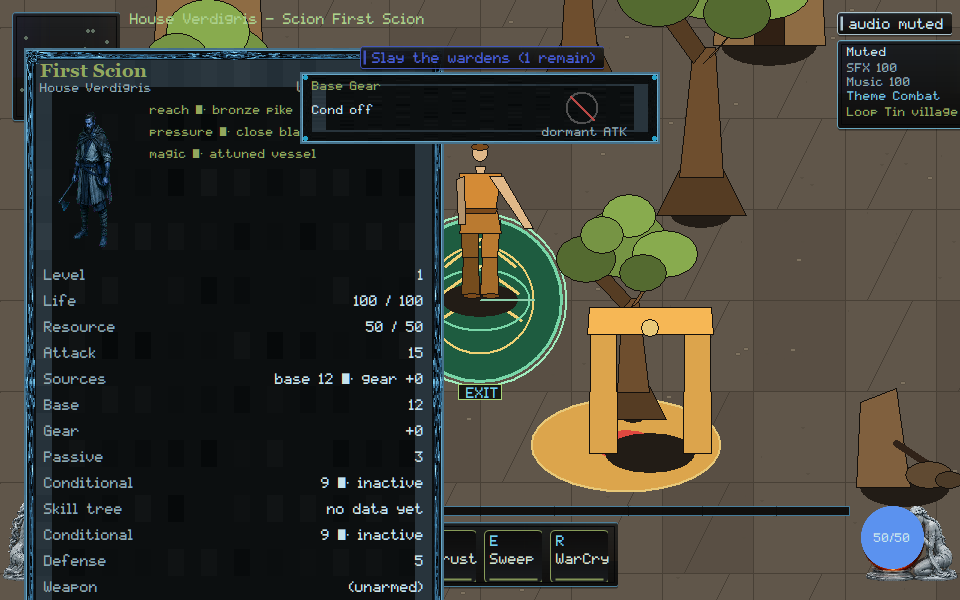
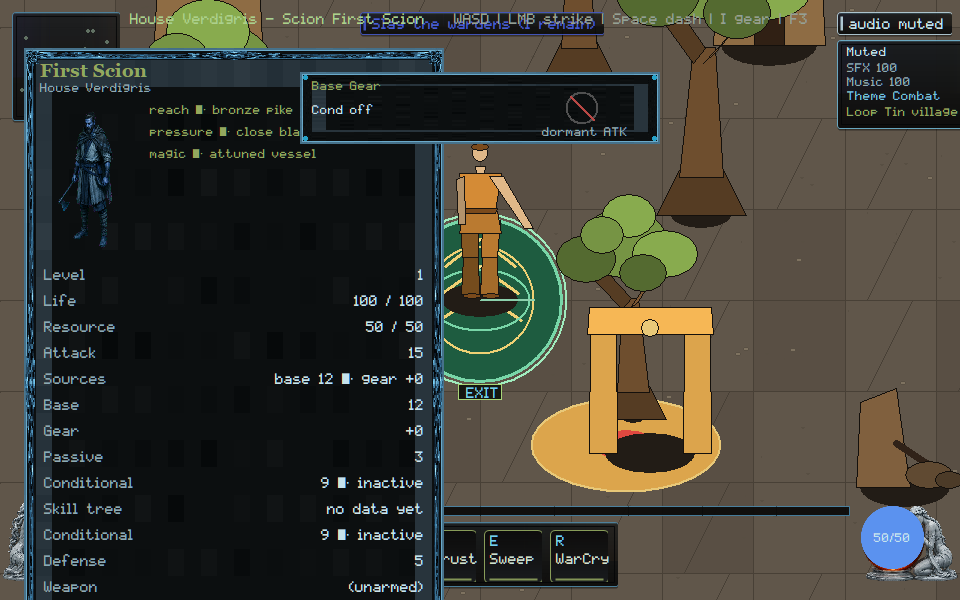
native: keep WASD off the open character sheet so overlaying or deleting the hint cannot certify HUD readability

Changed region(s): [[0.375, 0.0, 0.7188, 0.12], [0.75, 0.03, 0.8125, 0.06]]

diff --git a/native/client/main.cpp b/native/client/main.cpp
@@ -5464,27 +5464,47 @@ TopHudLayout plan_top_hud(int width, int height, bool gear_open, bool tree_open,
   layout.controls = place_centered(controls_size, layout.controls_placed);
   // TASK-0159: if no single-line slot exists, wrap the hint into two stacked
   // lines placed as one unit on the left ladders.
-  if (layout.controls.w == 0 && controls_size_b.w > 0) {
-    const auto try_rows_left_pair = [&](const TopHudRect& first,
-                                        const TopHudRect& second,
-                                        int x) -> TopHudRect {
-      for (int row = 0; row + 1 < kTopHudRowCount; ++row) {
-        TopHudRect cand_a{x, row_y(row), first.w, first.h};
-        TopHudRect cand_b{x, row_y(row + 1), second.w, second.h};
-        if (fits(row, cand_a) && fits(row + 1, cand_b)) {
-          occupied[row].push_back(cand_a);
-          occupied[row + 1].push_back(cand_b);
-          layout.controls_wrapped = true;
-          layout.controls_second = cand_b;
-          return cand_a;
-        }
+  const auto try_rows_left_pair = [&](const TopHudRect& first,
+                                      const TopHudRect& second,
+                                      int x) -> TopHudRect {
+    for (int row = 0; row + 1 < kTopHudRowCount; ++row) {
+      TopHudRect cand_a{x, row_y(row), first.w, first.h};
+      TopHudRect cand_b{x, row_y(row + 1), second.w, second.h};
+      if (fits(row, cand_a) && fits(row + 1, cand_b)) {
+        occupied[row].push_back(cand_a);
+        occupied[row + 1].push_back(cand_b);
+        layout.controls_wrapped = true;
+        layout.controls_second = cand_b;
+        return cand_a;
       }
-      return TopHudRect{};
-    };
+    }
+    return TopHudRect{};
+  };
+  if (layout.controls.w == 0 && controls_size_b.w > 0) {
     for (int pass = 0; pass < 2 && !layout.controls_wrapped; ++pass) {
       const TopHudRect got = try_rows_left_pair(
           controls_size_a, controls_size_b,
           pass == 0 ? lane_x : kTopHudGutter + 6);
+      if (got.w > 0) {
+        layout.controls = got;
+        layout.controls_placed = true;
+      }
+    }
+  }
+  // Character sheet owns the left column. Centered fallback would paint
+  // WASD onto it once row 0 is taken. The remaining lane is to the right
+  // of the sheet — never delete the hint, never overlay the pane.
+  if (!layout.controls_placed && character_open) {
+    const HudRect sheet =
+        character_pane_rect(width, height, character_extra_rows);
+    const int sheet_lane = sheet.x + sheet.w + kTopHudGap;
+    const TopHudRect single = try_rows_left(controls_size, sheet_lane);
+    if (single.w > 0) {
+      layout.controls = single;
+      layout.controls_placed = true;
+    } else if (controls_size_b.w > 0) {
+      const TopHudRect got =
+          try_rows_left_pair(controls_size_a, controls_size_b, sheet_lane);
       if (got.w > 0) {
         layout.controls = got;
         layout.controls_placed = true;
@@ -12558,6 +12578,65 @@ int scenario_hud_pane_readability() {
                    "hud-pane-readability: tree capture non-trivial");
   }
 
+  // VG-UI-007 extra: C-key character sheet keep-out. Centered WASD fallback
+  // cannot certify overlaying First Scion.
+  {
+    ClientState state;
+    scenario_begin(state);
+    load_billboards(state.billboards);
+    scenario_follow_camera(state);
+    state.character_pane = true;
+    const std::string png_sheet =
+        dir + "\\hud-pane-readability-character-960x600.png";
+    scenario_check(reference_present(state, 960, 600, png_sheet),
+                   "hud-pane-readability: character-open capture written");
+    const HudRect* pane = trace_find(state, "character-pane-frame");
+    scenario_check(pane != nullptr && pane->w > 100,
+                   "hud-pane-readability: character pane frame recorded");
+    const HudRect* controls = trace_find(state, "controls");
+    scenario_check(controls != nullptr,
+                   "hud-pane-readability: controls hint remains with the "
+                   "character sheet open");
+    scenario_check(
+        !verdigris::client::ui::missing_controls_fails_review(controls !=
+                                                             nullptr),
+        "hud-pane-readability: deleting WASD cannot certify the sheet");
+    const char* kSheetKeepOut[] = {"identity", "controls", "objective"};
+    for (const char* region : kSheetKeepOut) {
+      const HudRect* rect = trace_find(state, region);
+      char line[192];
+      std::snprintf(line, sizeof(line),
+                    "hud-pane-readability: %s never enters the character pane",
+                    region);
+      scenario_check(pane && rect && !hud_rects_overlap(*pane, *rect), line);
+    }
+    if (const HudRect* second = trace_find(state, "controls-second")) {
+      scenario_check(pane && !hud_rects_overlap(*pane, *second),
+                     "hud-pane-readability: controls-second never enters the "
+                     "character pane");
+    }
+    if (const HudRect* art = trace_find(state, "art")) {
+      scenario_check(pane && !hud_rects_overlap(*pane, *art),
+                     "hud-pane-readability: art/mute chip never enters the "
+                     "character pane");
+    }
+    const bool overlap =
+        pane && controls && hud_rects_overlap(*pane, *controls);
+    scenario_check(
+        verdigris::client::ui::controls_on_character_fails_review(true),
+        "hud-pane-readability: overlaying the sheet with WASD is the "
+        "anti-pattern");
+    scenario_check(
+        !verdigris::client::ui::controls_on_character_fails_review(overlap),
+        "hud-pane-readability: relocated controls are the production sheet HUD");
+    std::ifstream probe(png_sheet, std::ios::binary);
+    scenario_check(probe.good(),
+                   "hud-pane-readability: character capture readable");
+    probe.seekg(0, std::ios::end);
+    scenario_check(probe.tellg() > 1024,
+                   "hud-pane-readability: character capture non-trivial");
+  }
+
   // ── Remote owner path on this lane's routed loopback capsule (7100-7119):
   // the connection chip and art chip must also clear the open pane.
   {
@@ -14694,6 +14773,33 @@ int scenario_pane_stack() {
                  "pane-stack: live HUD names Stack 2 and Escape closes");
   scenario_check(helper_rejected,
                  "pane-stack: live HUD rejects helper depth as the journey");
+  const HudRect* stacked_sheet = nullptr;
+  const HudRect* stacked_controls = nullptr;
+  const HudRect* stacked_second = nullptr;
+  for (const auto& entry : state.hud_rect_trace) {
+    if (entry.first == "character-pane-frame") stacked_sheet = &entry.second;
+    if (entry.first == "controls") stacked_controls = &entry.second;
+    if (entry.first == "controls-second") stacked_second = &entry.second;
+  }
+  scenario_check(stacked_sheet && stacked_sheet->w > 100,
+                 "pane-stack: character pane frame is measured");
+  scenario_check(stacked_controls != nullptr,
+                 "pane-stack: controls hint remains with the character sheet open");
+  scenario_check(
+      stacked_sheet && stacked_controls &&
+          !hud_rects_overlap(*stacked_sheet, *stacked_controls),
+      "pane-stack: controls hint never enters the character pane");
+  if (stacked_second)
+    scenario_check(!hud_rects_overlap(*stacked_sheet, *stacked_second),
+                   "pane-stack: wrapped controls never enter the character pane");
+  scenario_check(verdigris::client::ui::controls_on_character_fails_review(true),
+                 "pane-stack: overlaying the sheet with WASD is the anti-pattern");
+  scenario_check(
+      !verdigris::client::ui::controls_on_character_fails_review(false),
+      "pane-stack: relocated controls are the production character HUD");
+  scenario_check(!verdigris::client::ui::missing_controls_fails_review(true),
+                 "pane-stack: keeping the hint is the production HUD");
+
   state.pane_stack_review_strip = false;
 
   handle_escape_key(state);

diff --git a/native/client/ui/bind-vital-orb-roles.hpp b/native/client/ui/bind-vital-orb-roles.hpp
@@ -38,5 +38,7 @@ inline bool mute_on_mana_globe_fails(bool muted, bool glyph_at_resource_cx) {
 inline const char* owner_life_left_label() { return "Life left"; }
 inline const char* owner_mana_right_label() { return "Mana right"; }
 inline bool controls_on_tree_fails_review(bool overlap) { return overlap; }
+inline bool controls_on_character_fails_review(bool overlap) { return overlap; }
+inline bool missing_controls_fails_review(bool present) { return !present; }
 
 }  // namespace verdigris::client::ui

diff --git a/docs/execution/CROSSWALK.md b/docs/execution/CROSSWALK.md
@@ -36,10 +36,10 @@ Cursor evidence notes.
 | VG-UI-001 | extend | native Escape stack (`pane-stack`); owner Stack 2 / Escape closes; absent tree hides seats; invented origin cannot pass; WASD cannot overlay the open tree |
 | VG-UI-002 | extend | TASK-0171 INTEGRATED, 0184 BRIDGE_PREP; `pack-drag`; reject cannot lose/duplicate/silent-equip |
 | VG-UI-003 | extend | paper-doll + ack-only HUD (`equipment`); pending compare cannot gold-frame as equipped; `progression-surface` owner Skill tree / No data yet (TASK folder cannot certify) |
-| VG-UI-004 | extend | TASK-0156, 0159 INTEGRATED; `stat-explain` expandable ATK; dormant cannot fold into Attack |
+| VG-UI-004 | extend | TASK-0156, 0159 INTEGRATED; `stat-explain` expandable ATK; dormant cannot fold into Attack; WASD stays off the C-key sheet |
 | VG-UI-005 | extend | TASK-0076 INTEGRATED; 0178/0192/0203 Owner Demo; `route-map` zoom/opacity cannot reveal off-snapshot targets |
 | VG-UI-006 | extend | TASK-0145/0177 + 0190/0197/0201 — **do not duplicate** |
-| VG-UI-007 | extend | TASK-0159 INTEGRATED, 0118 READY, 0207; `hud-pane-readability` at 960/1366/3440 + tree-open keep-out + `hud-scale-floor` + live window; TASK-0159 folder capture cannot certify; VG-UI-006 Owner Demo not duplicated |
+| VG-UI-007 | extend | TASK-0159 INTEGRATED, 0118 READY, 0207; `hud-pane-readability` at 960/1366/3440 + tree/character keep-out + `hud-scale-floor` + live window; TASK-0159 folder capture cannot certify; VG-UI-006 Owner Demo not duplicated |
 | VG-UI-008 | new | XInput tick path + glyphs (`pad-path`); not mouse emulation |
 | VG-ART-001/002/004 | extend | TASK-0141 INTEGRATED — village kit + collision-proxy ops (`kit-chunk`); not artist-local collision |
 | VG-ART-003/006 | extend | TASK-0122 INTEGRATED; 0173/0174 READY; 0186/0187 BRIDGE_PREP — Cursor paints melee **poses** (VG-ART-003) and WarCry **weave labels** plus Phase A spawn/fade (VG-ART-006) without taking TASK-0173 models or re-speccing TASK-0108 |
@@ -262,7 +262,8 @@ VG-UI-001: Escape dismisses character then gear; bare Escape quits. Owner
 strip paints Stack 2 / Escape closes. Helper depth alone cannot prove.
 Absent P-key tree paints No seats yet; an invented origin seat cannot
 certify. Open tree keep-out relocates WASD; overlaying the pane cannot
-certify. Scenario `pane-stack`. Evidence
+certify. Open character sheet keep-out relocates WASD; deleting the hint
+cannot certify. Scenario `pane-stack`. Evidence
 `docs/execution/evidence/VG-UI-001.json`.
 VG-MOVE-005: TASK-0165 focus reducer gates WASD, combat, pickup, and pack
 drag. Owner strip paints Focus gear / No buffer. Closing a pane cannot
@@ -331,7 +332,8 @@ chip. Owner strip paints Life left / Mana right. `hud-scale-floor` owner
 strip paints Type floor / Ink contrast. Shrink type cannot certify.
 `hud-pane-readability` recapture at 960/1366/3440 stays pairwise
 disjoint; no owner review strip on that scenario. Open P-key tree never
-intersects identity/controls/objective/minimap/quickbar/orbs. An X on
+intersects identity/controls/objective/minimap/quickbar/orbs. Open C-key
+sheet never intersects identity/controls/objective; WASD remains. An X on
 the mana globe cannot count as a non-color cue. Scenarios `vital-orbs` /
 `hud-scale-floor` / `hud-pane-readability`. Evidence
 `docs/execution/evidence/VG-UI-007.json`.
@@ -348,7 +350,8 @@ VG-UI-004: `stat-explain` — expanded ATK names base/gear/passive/cond on
 HUD ops. Owner strip paints Base Gear / Cond off. Owner paint uses
 Base/Gear, not `src` jargon. Slice builds on the sheet are role · gear
 chips; tactics stay on HUD ops. A dormant conditional cannot fold into
-Attack. Core STAT stays Kimi. Scenario `stat-explain`. Evidence
+Attack. Core STAT stays Kimi. WASD stays off the C-key sheet. Scenario
+`stat-explain`. Evidence
 `docs/execution/evidence/VG-UI-004.json`.
 VG-UI-002: `pack-drag` — reject cannot lose, duplicate, or silently equip.
 Owner strip paints Pack place / Reject keeps. Silent equip cannot

diff --git a/docs/execution/CROSSWALK_REGISTRY.md b/docs/execution/CROSSWALK_REGISTRY.md
@@ -135,13 +135,13 @@ not implemented here.
 | VG-ART-006 | G3 | extend | weave-vfx; animation-vfx-phase-a spawn once; not TASK-0108 |
 | VG-ART-007 | G3 | extend | Owner Demo — do not duplicate |
 | VG-ART-008 | G3 | extend | Owner Demo — do not duplicate |
-| VG-UI-001 | G1 | extend | pane-stack native Escape; absent tree hides seats; invented origin cannot prove; WASD keep-out |
+| VG-UI-001 | G1 | extend | pane-stack native Escape; absent tree hides seats; invented origin cannot prove; WASD keep-out for tree and character |
 | VG-UI-002 | G2 | extend | pack-drag occupancy; reject cannot lose/duplicate/silent-equip; sim inventory-move stays Kimi |
 | VG-UI-003 | G2 | extend | equipment ack-only; progression-surface Skill tree / No data yet; absent tree pane hides seats; WASD keep-out |
-| VG-UI-004 | G2 | extend | stat-explain owner Base/Gear labels; dormant cannot fold into Attack |
+| VG-UI-004 | G2 | extend | stat-explain owner Base/Gear labels; dormant cannot fold into Attack; WASD off C-key sheet |
 | VG-UI-005 | G3 | extend | route-map zoom/opacity; off-snapshot blip cannot pass; Owner Demo journeys not reimplemented |
 | VG-UI-006 | G2 | extend | Owner Demo — do not duplicate |
-| VG-UI-007 | G3 | extend | hud-pane-readability 960/1366/3440 + tree-open keep-out in art-wave; not VG-UI-006; TASK-0159 folder cannot certify |
+| VG-UI-007 | G3 | extend | hud-pane-readability 960/1366/3440 + tree/character keep-out in art-wave; not VG-UI-006; TASK-0159 folder cannot certify |
 | VG-UI-008 | G4 | new | pad-path XInput on tick |
 | VG-SOUND-001 | G1 | new | sound-adapter |
 | VG-SOUND-002 | G2 | new | legal-sounds |

diff --git a/orchestration/CURSOR_KIMI_LANES.md b/orchestration/CURSOR_KIMI_LANES.md
@@ -901,3 +901,13 @@ Please move off that branch before taking a new native path.
 - **Stay off** `native/client/main.cpp` and `docs/execution/**`. SEC/CORE
   remain yours. GOV-002 still unstamped.
 
+## Cursor reply (2026-09-06, Character keep-out, WASD off sheet)
+
+- **Lease:** `main.cpp` still **ACTIVE**. `remote_session.cpp` stays
+  **RELEASED**. Do not re-spec TASK-0108 core/wire (`3b929637`).
+- **Landed this push:** VG-UI-007/001/004 — C-key sheet keep-out relocates
+  WASD; overlaying or deleting the hint rejected. STAT algebra stays yours.
+  Captures viewed. Not Owner Demo.
+- **Stay off** `native/client/main.cpp` and `docs/execution/**`. SEC/CORE
+  remain yours. GOV-002 still unstamped.
+

diff --git a/docs/rebuild/HANDOFF.md b/docs/rebuild/HANDOFF.md
@@ -1,5 +1,15 @@
 # Native reconstitution handoff
 
+## 2026-09-06 — Character keep-out, WASD off sheet (Cursor)
+
+- VG-UI-007 / VG-UI-001 / VG-UI-004: C-key First Scion no longer takes the
+  centered WASD fallback. The planner places the hint in the lane right of
+  the sheet; deleting it cannot certify. Owner Base Gear strip on
+  `stat-explain` is review overlay. Open tree keep-out from the prior
+  packet is unchanged.
+- Scenarios `hud-pane-readability` / `pane-stack` / `stat-explain` PASS.
+  Captures viewed. Not Owner Demo. Not TASK-0108.
+
 ## 2026-09-06 — Tree keep-out, WASD off pane (Cursor)
 
 - VG-UI-007 / VG-UI-001: the top HUD no longer paints WASD on the open
